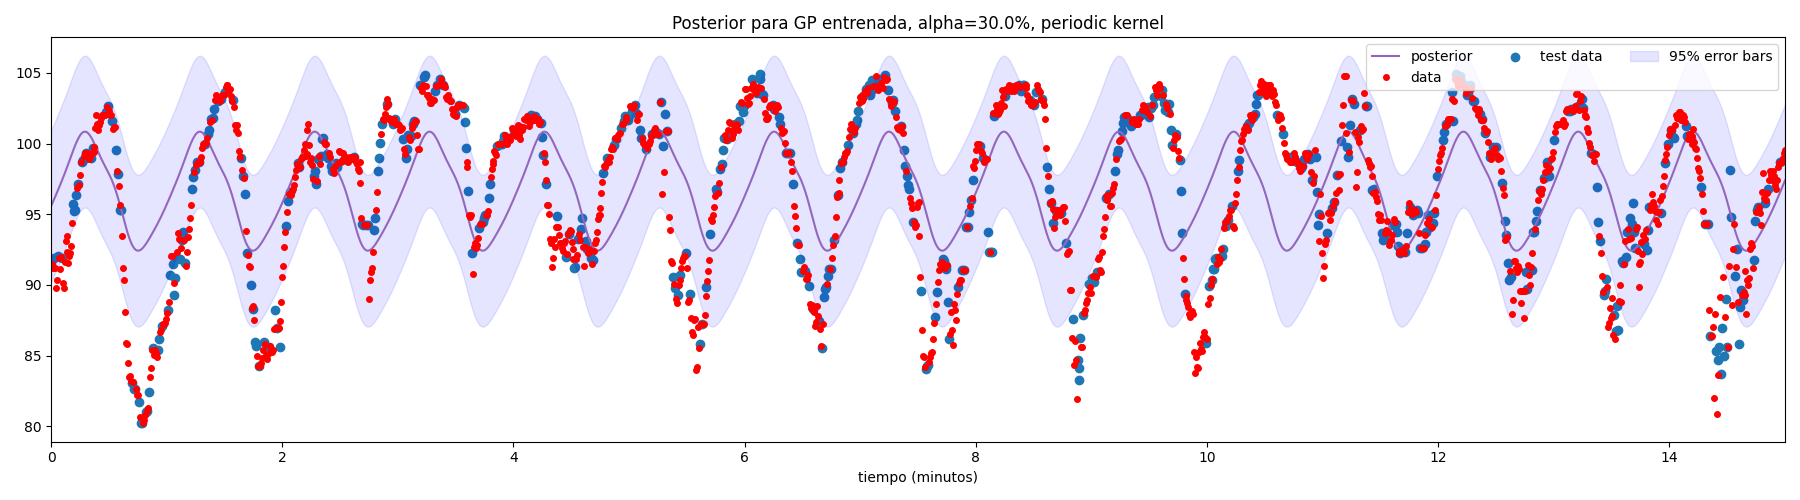
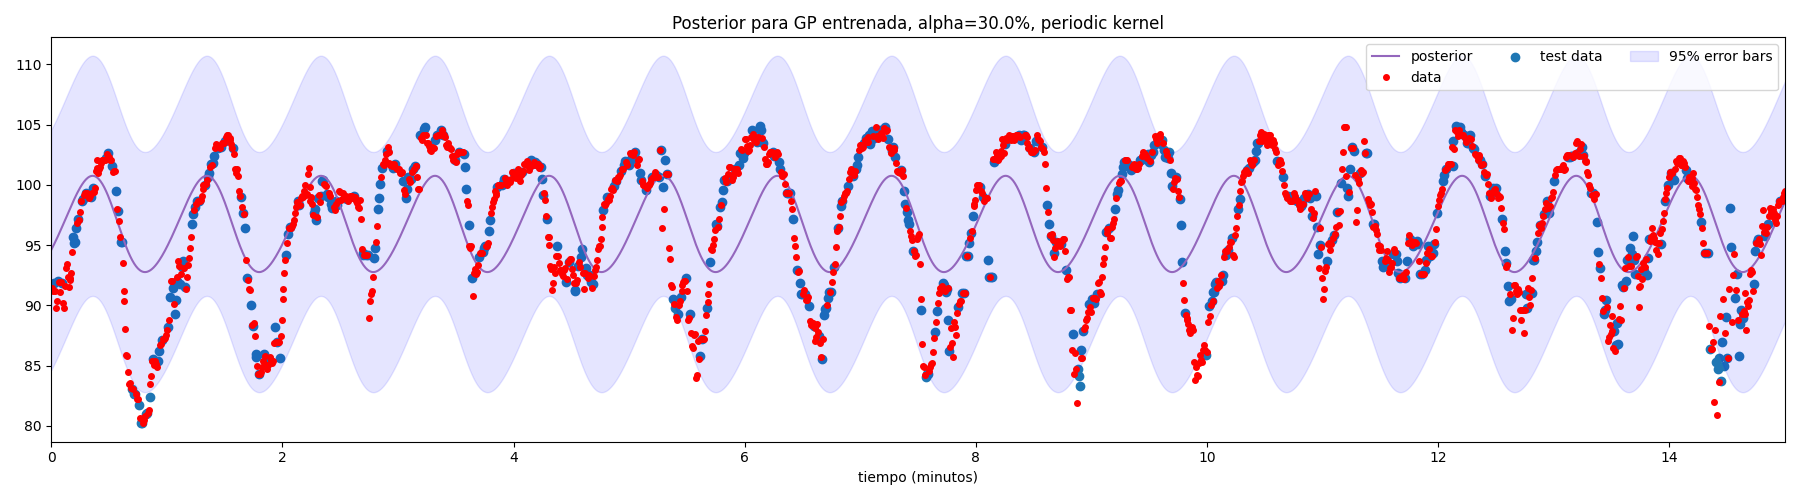
updte periodic kernel gradient

diff --git a/unidad_2/tarea_3/gp/kernels.py b/unidad_2/tarea_3/gp/kernels.py
@@ -87,7 +87,7 @@ class SpectralMixtureKernel:
         return new_sigma_n, np.array([self.sigma, self.mu, self.gamma])
 
 class PeriodicKernel:
-    """Kernel Mixtura Espectral"""
+    """Kernel Periódico"""
     def __init__(self,sigma=1.0,length_scale=1.0,periodicity=1.0):
         self.sigma = sigma
         self.length_scale = length_scale
@@ -100,11 +100,11 @@ class PeriodicKernel:
         print(f'\tperiodicidad = {self.periodicity}')
     
     def __call__(self, X, Y):
-        return self.sigma**2 * np.exp(-2 * (np.sin(np.pi / self.periodicity * outersum(X,-Y)) / self.length_scale) ** 2)
+        return self.sigma**2 * np.exp(-2 * (np.sin(np.pi / self.periodicity * outersum(X,-Y)) / self.length_scale**2) ** 2)
     
     @staticmethod
     def kernel_eval(x,y,sigma,length_scale,periodicity):
-        return sigma**2 * np.exp (-2 * (np.sin(np.pi / periodicity * outersum(x,-y)) / length_scale) ** 2 )
+        return sigma**2 * np.exp (-2 * (np.sin(np.pi / periodicity * outersum(x,-y)) / length_scale**2) ** 2 )
     
     def nlogp(self,x,y,Nx,hypers):
         sigma = np.exp(hypers[0])
@@ -131,7 +131,7 @@ class PeriodicKernel:
         arg = np.pi * outersum(x,-x) / periodicity
         sin, cos = np.sin(arg), np.cos(arg)
 
-        dKdsigma = 2 * sigma * K
+        dKdsigma = 2*Gram/sigma
         dKdl = 4 * K * sin**2 / length_scale**3
         dKdperiod = 4 * K * sin / length_scale**2 * cos * arg / periodicity
         dKdsigma_n = 2*sigma_n*np.eye(Nx)
@@ -142,6 +142,72 @@ class PeriodicKernel:
         dlogp_dperiod = periodicity * 0.5*np.trace(H@dKdperiod)
         dlogp_dsigma_n = sigma_n * 0.5*np.trace(H@dKdsigma_n)
         return np.array([-dlogp_dsigma, -dlogp_dl, -dlogp_dperiod, -dlogp_dsigma_n])
+    
+    
+    def update_params(self, X, Y, sigma_n, Nx, verbose=True):
+		
+        hypers0 = np.array([np.log(self.sigma), np.log(self.length_scale), np.log(self.periodicity), np.log(sigma_n)])
+
+        jacobian = lambda hypers: self.dnlogp(X, Y, Nx, hypers)
+        obj_fun = lambda hypers: self.nlogp(X, Y, Nx, hypers)
+
+        res = minimize(obj_fun, hypers0, args=(), method='Newton-CG', jac=jacobian, options={'maxiter': 500, 'disp': verbose})
+
+        self.sigma = np.exp(res.x[0])
+        self.length_scale = np.exp(res.x[1])
+        self.periodicity = np.exp(res.x[2])
+        new_sigma_n = np.exp(res.x[3])
+
+        return new_sigma_n, np.array([self.sigma, self.length_scale, self.periodicity])
+
+
+class RBFKernel:
+    """Radial Basis Function kernel"""
+    def __init__(self,sigma=1.0,length_scale=1.0,periodicity=1.0):
+        self.sigma = sigma
+        self.length_scale = length_scale
+    
+    def show_hypers(self):
+        print('Hyperparámetros Kernel RBF:')
+        print(f'\tsigma = {self.sigma}')
+        print(f'\tlargo de escala = {self.length_scale}')
+    
+    def __call__(self, X, Y):
+        return self.sigma**2 * np.exp(-0.5 * (outersum(X,-Y) / self.length_scale)**2)
+    
+    @staticmethod
+    def kernel_eval(x,y,sigma,length_scale):
+        return sigma**2 * np.exp(-0.5 * (outersum(x,-y) / length_scale)**2)
+    
+    def nlogp(self,x,y,Nx,hypers):
+        sigma = np.exp(hypers[0])
+        length_scale = np.exp(hypers[1])
+        sigma_n = np.exp(hypers[2])
+
+        Gram = self.kernel_eval(x,x,sigma,length_scale)
+        K = Gram + sigma_n**2*np.eye(Nx) + 1e-5*np.eye(Nx)
+        (_, logdet) = np.linalg.slogdet(K)
+        return 0.5*(y.T@np.linalg.solve(K,y) + logdet + Nx*np.log(2*np.pi))
+
+    def dnlogp(self,x,y,Nx, hypers):
+        sigma = np.exp(hypers[0])
+        length_scale = np.exp(hypers[1])
+        sigma_n = np.exp(hypers[2])
+
+        Gram = self.kernel_eval(x,x,sigma,length_scale)
+        K = Gram + sigma_n**2*np.eye(Nx) + 1e-5*np.eye(Nx)
+
+        h = np.linalg.solve(K,y).T
+
+        dKdsigma = 2 * sigma * K
+        # dKdl = 4 * K * sin**2 / length_scale**3
+        dKdsigma_n = 2*sigma_n*np.eye(Nx)
+
+        H = (np.outer(h,h) - np.linalg.inv(K))
+        dlogp_dsigma = length_scale * 0.5*np.trace(H@dKdsigma)
+        # dlogp_dl = length_scale * 0.5*np.trace(H@dKdl)
+        dlogp_dsigma_n = sigma_n * 0.5*np.trace(H@dKdsigma_n)
+        # return np.array([-dlogp_dsigma, -dlogp_dl, -dlogp_dsigma_n])
     
     
     def update_params(self, X, Y, sigma_n, Nx, verbose=True):
